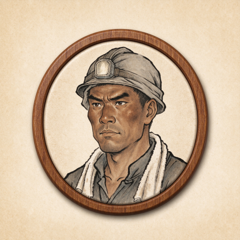
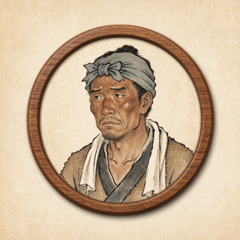
v20260924z10 布巾矿工头像,物品图标统一48px,人形流畅剪影重画,罗盘min-width防压缩,#actions横向滚动,进城动画改地区名淡化不遮屏

Changed region(s): [[0.0875, 0.0875, 0.9333, 0.875]]

diff --git a/shared/css/game.css b/shared/css/game.css
@@ -187,16 +187,17 @@
   /* 三层视觉分级：叙事区(浅) → 按钮区(略深+上沿分隔) → 系统dock(再深) */
   #actions{
     flex:0 0 auto;
-    display:grid;
-    grid-template-columns:repeat(auto-fill, minmax(100px,1fr));
-    align-items:stretch;gap:8px;
+    display:flex;flex-wrap:nowrap;gap:8px;align-items:stretch;
     padding:10px 14px calc(10px + env(safe-area-inset-bottom));
     border-top:1px solid var(--panel-line);
     background:linear-gradient(0deg,rgba(244,238,227,.96),rgba(250,246,237,.55));
     box-shadow:0 -9px 18px -12px rgba(60,48,34,.24), inset 0 1px 0 rgba(255,255,255,.7);
-    max-height:50dvh;overflow-y:auto;
+    /* v20260924z10：场景物件保持一格高度，多了横向拖动，不再撑高页面顶出罗盘/dock */
+    overflow-x:auto;overflow-y:hidden;-webkit-overflow-scrolling:touch;
+    scroll-snap-type:x proximity;
   }
-  #actions::-webkit-scrollbar{width:0;}
+  #actions .act{flex:0 0 auto;min-width:96px;max-width:130px;scroll-snap-align:start;}
+  #actions::-webkit-scrollbar{height:0;}
   .acts-label{grid-column:1/-1;text-align:center;font-size:11px;letter-spacing:5px;
     color:var(--ink-faint);font-family:"STKaiti","KaiTi",serif;opacity:.72;margin:1px 0 2px;}
   .obj-hint{grid-column:1/-1;text-align:center;font-size:12px;line-height:1.6;color:var(--ink-faint);
@@ -359,7 +360,8 @@
     grid-template-rows:repeat(3,auto);
     gap:6px;align-self:center;
     width:min(100% - 16px, 300px);
-    margin:2px 0 4px;padding:11px;
+    min-width:212px;              /* v20260924z10：罗盘不被左侧 NPC 栏挤压缩 */
+    margin:2px auto 4px;padding:11px;
     background:rgba(176,131,47,.06);border:1px solid rgba(176,131,47,.22);border-radius:18px;
     box-shadow:0 2px 10px rgba(60,48,34,.08);
   }
@@ -2831,20 +2833,14 @@
   .ch-gear{grid-template-columns:repeat(3,1fr);gap:5px;}
 }
 
-/* v20260924z9：进城过场 —— 亮宣纸底 + 朱红城名 + 上下金线（去压抑） */
-#cityfx{position:fixed;inset:0;z-index:99999;pointer-events:none;overflow:hidden;}
-#cityfx .cfx-ink{position:absolute;inset:0;
-  background:radial-gradient(circle at 50% 42%, #fffdf4 0%, #f7efdb 52%, #e9dcb8 100%);
-  animation:cfxInk .7s ease-out both;}
-#cityfx .cfx-name{position:absolute;left:50%;top:44%;transform:translate(-50%,-50%);
-  font-family:'STKaiti','KaiTi','Songti SC',serif;font-size:34px;letter-spacing:12px;
-  color:#7c2d12;text-shadow:0 1px 0 rgba(255,255,255,.7),0 2px 10px rgba(124,45,18,.22);
-  opacity:0;white-space:nowrap;animation:cfxName 1.9s ease both;}
-#cityfx .cfx-line{position:absolute;left:24%;right:24%;height:2px;border-radius:1px;
-  background:linear-gradient(90deg,transparent,#b8863b 30%,#c98f3f 70%,transparent);
-  animation:cfxLine .7s ease-out .18s both;}
-#cityfx .cfx-line.t{top:36%;}
-#cityfx .cfx-line.b{bottom:36%;}
-@keyframes cfxInk{from{opacity:0}to{opacity:1}}
-@keyframes cfxName{0%{opacity:0;transform:translate(-50%,-50%) scale(.86);}18%{opacity:1;transform:translate(-50%,-50%) scale(1);}80%{opacity:1}100%{opacity:0;transform:translate(-50%,-50%) scale(1.02);}}
+/* v20260924z10：进城提示 —— 地区名淡化浮现（类 RPG 新地图提示，不遮屏不挡操作） */
+#cityfx{position:fixed;left:50%;top:30%;transform:translateX(-50%);z-index:9999;pointer-events:none;
+  text-align:center;white-space:nowrap;}
+#cityfx .cfx-name{font-family:'STKaiti','KaiTi','Songti SC',serif;font-size:33px;letter-spacing:14px;
+  color:#7c2d12;text-shadow:0 1px 0 rgba(255,255,255,.8),0 2px 10px rgba(124,45,18,.25);
+  opacity:0;animation:cfxName 1.9s ease both;}
+#cityfx .cfx-line{width:150px;height:2px;margin:8px auto 0;border-radius:1px;
+  background:linear-gradient(90deg,transparent,#b8863b,transparent);
+  animation:cfxLine .6s ease-out .2s both;}
+@keyframes cfxName{0%{opacity:0;transform:translateY(7px);}16%{opacity:1;transform:translateY(0);}80%{opacity:1}100%{opacity:0;transform:translateY(-4px);}}
 @keyframes cfxLine{from{transform:scaleX(0)}to{transform:scaleX(1)}}

diff --git a/shared/core/pack.js b/shared/core/pack.js
@@ -81,7 +81,7 @@
       var cnt = (it.count>1)?('<span class="pcell-cnt">'+it.count+'</span>'):'';
       var qb = (it.quality)?('<span class="pcell-qbadge" style="background:'+((LF.ITEMS.QMAP[it.quality]||{}).color||'#9a948a')+'"></span>'):'';
       grid += '<div class="packcell'+inspCls({kind:'pack',idx:i})+'" data-loc="pack:'+i+'">'
-            + '<div class="pcell-ic">'+itemIconHTML(it,30)+'</div>'
+            + '<div class="pcell-ic">'+itemIconHTML(it,42)+'</div>'
             + cnt + qb + '</div>';
     }
     return grid;
@@ -91,15 +91,15 @@
     // v20260924z8：人形剪影精修 —— 古风武将写意（发髻/交领衣袍/腰带/斜臂），赭石棕色调与整体美术统一
     var sil = '<svg class="equip-sil" viewBox="0 0 124 130" preserveAspectRatio="xMidYMid meet">'
       + '<g fill="rgba(146,108,62,.16)" stroke="rgba(146,108,62,.72)" stroke-width="1.5">'
-      + '<circle cx="70" cy="7" r="7"/>'
+      + '<circle cx="70" cy="7" r="6"/>'
       + '<circle cx="62" cy="22" r="16"/>'
-      + '<path d="M47 40 h30 v32 q0 14 -7 20 h-16 q-7 -6 -7 -20 z"/>'
-      + '<path d="M50 44 h24 l-5 7 h-14 z" fill="rgba(146,108,62,.28)" stroke="none"/>'
-      + '<rect x="47" y="76" width="30" height="3" rx="1.5" fill="rgba(146,108,62,.4)" stroke="none"/>'
-      + '<rect x="28" y="47" width="9" height="26" rx="4.5" transform="rotate(20 32 60)"/>'
-      + '<rect x="87" y="47" width="9" height="26" rx="4.5" transform="rotate(-20 92 60)"/>'
-      + '<rect x="50" y="86" width="11" height="19" rx="5"/>'
-      + '<rect x="63" y="86" width="11" height="19" rx="5"/>'
+      + '<path d="M47 40 C43 42 40 46 40 51 L40 64 C40 76 46 86 62 86 C78 86 84 76 84 64 L84 51 C84 46 81 42 77 40 Z"/>'
+      + '<path d="M62 42 L51 56 M62 42 L73 56" fill="none" stroke-width="2" stroke-linejoin="round"/>'
+      + '<rect x="42" y="66" width="40" height="3" rx="1.5" fill="rgba(146,108,62,.4)" stroke="none"/>'
+      + '<path d="M40 51 C33 56 30 64 30 74 C30 78 34 81 37 78 C42 73 44 63 45 56 Z"/>'
+      + '<path d="M84 51 C91 56 94 64 94 74 C94 78 90 81 87 78 C82 73 80 63 79 56 Z"/>'
+      + '<path d="M50 86 C48 97 47 107 47 117 C47 121 50 124 53 124 L55 124 C56 111 57 100 58 91 Z"/>'
+      + '<path d="M74 86 C76 97 77 107 77 117 C77 121 74 124 71 124 L69 124 C68 111 67 100 66 91 Z"/>'
       + '</g></svg>';
     var eqHtml='', bagSlot='';
     LF.ITEMS.SLOT_KEYS.forEach(function(slot){
@@ -137,7 +137,7 @@
       var cnt = (it.count>1)?('<span class="pcell-cnt">'+it.count+'</span>'):'';
       var qb = (it.quality)?('<span class="pcell-qbadge" style="background:'+((LF.ITEMS.QMAP[it.quality]||{}).color||'#9a948a')+'"></span>'):'';
       grid += '<div class="packcell'+inspCls({kind:'pack',idx:i})+'" data-loc="pack:'+i+'">'
-            + '<div class="pcell-ic">'+itemIconHTML(it,30)+'</div>'
+            + '<div class="pcell-ic">'+itemIconHTML(it,42)+'</div>'
             + cnt + qb + '</div>';
     }
     return '<div class="pack-wrap">'

diff --git a/index.html b/index.html
@@ -7,7 +7,7 @@
 <meta http-equiv="Pragma" content="no-cache">
 <meta http-equiv="Expires" content="0">
 <title>乱世烽火 · 水墨</title>
-<link rel="stylesheet" href="shared/css/game.css?v=20260924z9" />
+<link rel="stylesheet" href="shared/css/game.css?v=20260924z10" />
 <link rel="preconnect" href="https://fonts.googleapis.com">
 <link rel="preconnect" href="https://fonts.gstatic.com" crossorigin>
 <link href="https://fonts.googleapis.com/css2?family=Ma+Shan+Zheng&family=Zhi+Mang+Xing&display=swap" rel="stylesheet" media="print" onload="this.media='all'">
@@ -67,7 +67,7 @@ window.onerror=function(msg,url,line,col,err){
       <button class="t-btn" id="t-set">整 肃 行 装</button>
       <button class="t-btn" id="t-credit">群 英 同 撰</button>
     </div>
-    <div class="tt-ver" id="tt-ver">v20260924z9</div>
+    <div class="tt-ver" id="tt-ver">v20260924z10</div>
   </div>
 </div>
 
@@ -205,7 +205,7 @@ window.onerror=function(msg,url,line,col,err){
 <script src="shared/core/npc.js?v=20260916c" defer></script>
   <script src="shared/core/inventory.js?v=20260910u" defer></script>
   <script src="shared/core/mapview.js?v=20260924i" defer></script>
-  <script src="shared/core/citybuild.js?v=20260916b" defer></script>
+  <script src="shared/core/citybuild.js?v=20260924z10" defer></script>
   <script src="shared/core/audio.js?v=20260909j" defer></script>
   <script src="shared/core/combat.js?v=20260924z2" defer></script>
   <script src="shared/core/army.js?v=20260924i" defer></script>   <!-- 军队核心（v20260922a） -->
@@ -213,7 +213,7 @@ window.onerror=function(msg,url,line,col,err){
 <script src="shared/core/officers.js?v=20260924j" defer></script>   <!-- 武将系统（v20260923ui） -->
   <script src="shared/core/charhall.js?v=20260924i" defer></script>  <!-- 角色大厅（v20260923r） -->
   <script src="shared/core/war.js?v=20260924i" defer></script>    <!-- 战术战斗编排（v20260922a） -->
-  <script src="shared/core/pack.js?v=20260924z9" defer></script>
+  <script src="shared/core/pack.js?v=20260924z10" defer></script>
   <script src="shared/core/building.js?v=20260915h" defer></script>
   <script src="shared/core/storage.js?v=20260924z" defer></script>
   <script src="shared/core/charcreate.js?v=20260918h" defer></script>

diff --git a/shared/core/citybuild.js b/shared/core/citybuild.js
@@ -173,7 +173,7 @@
         var have = o.matsPaid[k] || 0, need = stage.need[k], packN = (packFind(k) || { count: 0 }).count;
         var done = have >= need;
         html += '<div style="display:flex;align-items:center;gap:8px;border:1px solid #6b5a3a;border-radius:8px;padding:8px;margin:6px 0;background:rgba(0,0,0,.18);">' +
-          '<span>' + itemIconHTML(it, 18) + '</span>' +
+          '<span>' + itemIconHTML(it, 42) + '</span>' +
           '<span style="opacity:.8;flex:1;">' + have + ' / ' + need + '　·　行囊' + packN + '</span>' +
           (done ? '<span style="color:#8fce8f;">已备齐</span>' : '<button class="btn-mini" data-order="' + o.id + '" data-mat="' + k + '">投 料</button>') +
           '</div>';

diff --git a/shared/core/engine.js b/shared/core/engine.js
@@ -1561,9 +1561,9 @@
     FX_LAST_AT=now;
     var d=document.createElement('div');
     d.id='cityfx';
-    d.innerHTML='<div class="cfx-ink"></div><div class="cfx-line t"></div><div class="cfx-line b"></div><div class="cfx-name">'+name+'</div>';
+    d.innerHTML='<div class="cfx-name">'+name+'</div><div class="cfx-line"></div>';
     (document.body||document.documentElement).appendChild(d);
-    setTimeout(function(){ if(d.parentNode) d.parentNode.removeChild(d); }, 2000);
+    setTimeout(function(){ if(d.parentNode) d.parentNode.removeChild(d); }, 1900);
   }
   // 巡山埋伏：进入巡逻山道有概率遇敌（山贼 / 流寇）
   function maybeAmbush(room){

diff --git a/shared/config/constants.js b/shared/config/constants.js
@@ -3,7 +3,7 @@
 (function (global) {
   var CONSTANTS = {
     GAME_NAME: '乱世烽火',
-    VERSION: '20260924z9',
+    VERSION: '20260924z10',
     MAX_LEVEL: 60
   };
   global.LF = global.LF || {};

diff --git a/PROGRESS.md b/PROGRESS.md
@@ -1,10 +1,8 @@
-## §9.86 v20260924z9（体验优化五连：进城动画换新/人形放大/NPC模板头像/布局固定/图标加大）
-- ①进城动画去压抑：全屏墨色晕开 → 亮宣纸底 + 朱红城名 + 上下金线展开（0.7s 淡入 + 1.9s 城名浮现，总 2s）。
-- ②装备栏人形：equip-figure 124→150px、剪影 opacity .35→.6（更明显，古风武将剪影可见）。
-- ③布局修复：status/dock 改 position:sticky（top0/bottom0 + z60）——苦役营牢房/中军物件多把页面撑高时，顶栏/底栏不再被顶出视口。
-- ④泛用 NPC 模板头像：AI 生成 5 张（矿工/文士/哨兵/商贩/乞儿，240px ~90KB）+ sm_ 副本；
-  uiicons.js 加 NPC_BY_ROLE（24 种 npc_cards role → 模板头像），engine NPC 渲染 avatar 传 role——
-  程序生成 NPC（门吏/货郎/庄头/矿工/火头军…）全部有头像，不再 👤。
-- ⑤物品图标加大：行囊格子 itemIconHTML 13→30（图 36px），fallback 字号上限 16 防挤爆格子。
-- 实测：进城动画 2 金线+亮底、avatar 哨兵/矿工命中模板、sticky 生效、figW150/opacity.6、无报错。
-- 改动：engine.js、pack.js、uiicons.js、game.css、index.html、constants.js、shared/img/ 新增 10 文件，版本 20260924z9。
+## §9.87 v20260924z10（美术体验批收尾：布巾矿工/图标48/人形重画/罗盘防压/横滑/进城提示）
+- ①矿工头像重画：否决现代安全帽版 → 青灰布巾包头、古铜面庞、粗麻短褐（nWpbfjKDHU 压 240 覆盖 npc-miner/sm_npc-miner）。
+- ②物品图标加大且统一：行囊/仓库格子 px 30/18 → 42（雪碧图 w=px+6 → 48px），大小不一的根因是不同面板 px 不同（行囊30/仓库18/战斗15）——大格子统一 48，战斗小格子保持小尺寸。
+- ③装备栏人形重画：弃矩形+斜臂方块感 → 流畅人体剪影（圆头/发髻/宽肩收腰躯干 path/交领/腰带/斜垂双臂/双腿 path），viewBox 124×130 不变，装备槽位定位不受影响。
+- ④罗盘防压缩：.move-bar min-width:212px + margin:0 auto，不再被左侧 NPC 栏挤窄；#actions 改 flex 横向滚动（场景物件一格高度、多了横拖），不再 grid 撑高页面顶出下部区域。
+- ⑤进城动画 → RPG 式地区名淡化：去掉全屏 ink 遮罩，仅中上部朱红大字城名 + 金线淡入淡出 1.9s，pointer-events:none 不挡操作。
+- 实测：进城动画 ink 已去除、actions flex nowrap 横滚、move-bar min-width 212px 生效、无 JS 报错。
+- 改动：engine.js/pack.js/citybuild.js/game.css/index.html/constants.js/shared/img 矿工头像，版本 20260924z10。
